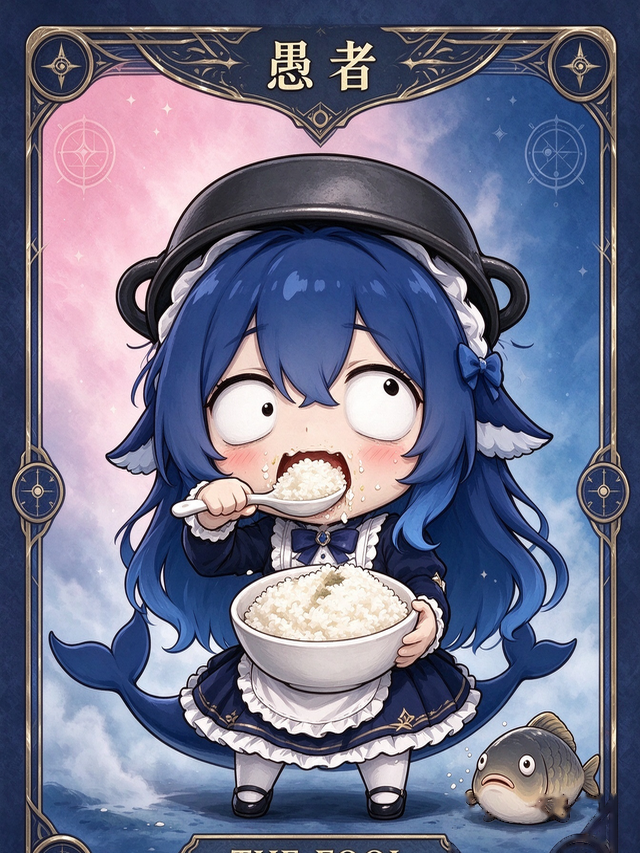
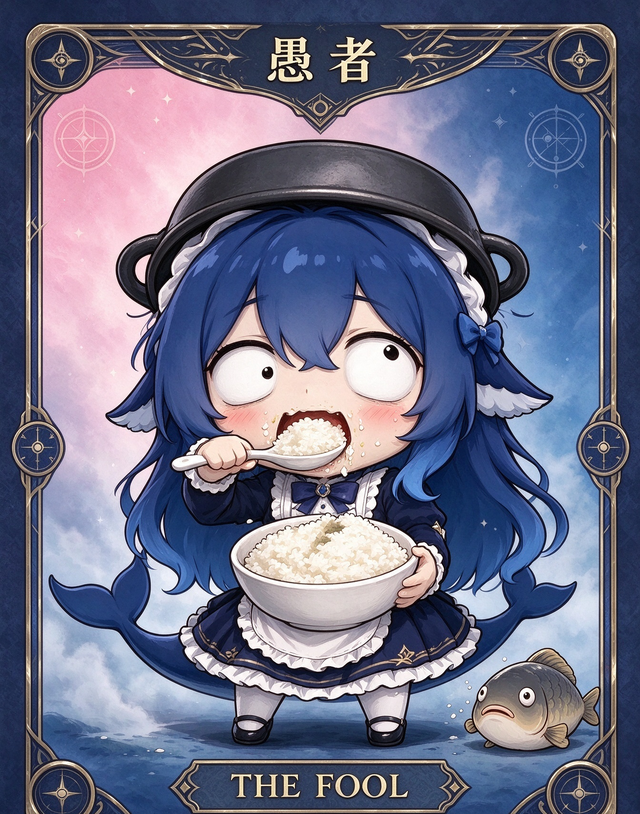
fix(tarot): re-process Fool card (keep title bar) + cache-busting for card images

diff --git a/tarot/index.html b/tarot/index.html
@@ -177,7 +177,8 @@ const CARDS = [{"n": 0, "roman": "0", "name": "愚人", "en": "The Fool", "kw_up
 const SPREADS = [{"key": "one", "name": "单张指引", "count": 1, "desc": "一句话的问题，一张牌回答。", "positions": [{"label": "这张牌说", "prompt": "此刻最需要被看见的部分"}]}, {"key": "three", "name": "三张：过去·现在·未来", "count": 3, "desc": "最经典的时间线。", "positions": [{"label": "过去", "prompt": "这件事的根源"}, {"label": "现在", "prompt": "你此刻的位置"}, {"label": "未来", "prompt": "按现在的走法会到的地方"}]}, {"key": "body", "name": "三张：身·心·灵", "count": 3, "desc": "日常自我觉察，看哪一层失衡。", "positions": [{"label": "身", "prompt": "身体与物质状态"}, {"label": "心", "prompt": "情绪与感受"}, {"label": "灵", "prompt": "精神与方向"}]}, {"key": "rel", "name": "三张：你·关系·对方", "count": 3, "desc": "一段关系的三个视角。", "positions": [{"label": "你", "prompt": "你的真实状态"}, {"label": "关系", "prompt": "你们之间的纽带本质"}, {"label": "对方", "prompt": "对方的真实状态"}]}, {"key": "ab", "name": "三张：A·关键·B", "count": 3, "desc": "两难时用，中间是决定性变量。", "positions": [{"label": "选择A", "prompt": "选A会怎样"}, {"label": "关键因素", "prompt": "真正影响决策的变量"}, {"label": "选择B", "prompt": "选B会怎样"}]}, {"key": "act", "name": "三张：情境·行动·结果", "count": 3, "desc": "问题解决型，给具体下一步。", "positions": [{"label": "情境", "prompt": "你现在的处境"}, {"label": "行动", "prompt": "该采取的策略"}, {"label": "结果", "prompt": "照做之后的走向"}]}, {"key": "adv", "name": "三张：优势·建议·结果", "count": 3, "desc": "需要行动方案时用。", "positions": [{"label": "优势", "prompt": "你有的资源和条件"}, {"label": "建议", "prompt": "给你的行动指导"}, {"label": "结果", "prompt": "照做可能得到什么"}]}];
 const REV = 0.42;
 const DECKS = ['cards/', 'cards-db/', 'cards-q/'];
-let deckStyle = 1, deckPrefix = DECKS[1];  // 默认牌面（不标出处）
+let deckStyle = 1, deckPrefix = DECKS[1];
+const IMG_V = '?v=1030a';   // 换图后改这里，避免浏览器缓存旧图  // 默认牌面（不标出处）
 let spread = null, pool = [], picked = [];
 const $ = id => document.getElementById(id);
 const byKey = k => SPREADS.find(s => s.key === k);
@@ -252,7 +253,7 @@ function pickOne(el, i) {
 
 function imgTag(c, style) {
   const n = String(c.n).padStart(2, '0');
-  return '<img src="' + deckPrefix + n + '.png" style="' + style + '" alt="" ' +
+  return '<img src="' + deckPrefix + n + '.png' + IMG_V + '" style="' + style + '" alt="" ' +
          'onerror="this.onerror=null;this.src=&#39;cards/' + n + '.png&#39;">';
 }
 
@@ -315,7 +316,7 @@ function render(list) {
       if (!items[i]) return;
       const n = String(items[i].c.n).padStart(2, '0');
       im.onerror = function () { this.onerror = null; this.src = 'cards/' + n + '.png'; };
-      im.src = deckPrefix + n + '.png';
+      im.src = deckPrefix + n + '.png' + IMG_V;
     });
     // 画风命名：cards=抽象版；cards-db=不提名字；cards-q=自绘版
     const NAMES = { 'cards/': '换个画风（抽象版）', 'cards-db/': '换个画风', 'cards-q/': '换个画风（自绘线稿）' };
@@ -390,7 +391,7 @@ async function buildCardImage(items){
   x.restore();
   const n = String(c0.n).padStart(2, '0');
   try {
-    const im = await loadImage(deckPrefix + n + '.png');
+    const im = await loadImage(deckPrefix + n + '.png' + IMG_V);
     x.save();
     roundRect(x, cx, cy, cw, ch, 18); x.clip();
     if (c0.isRev) {
